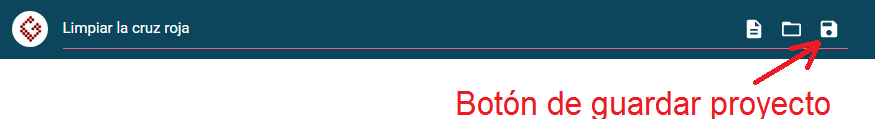
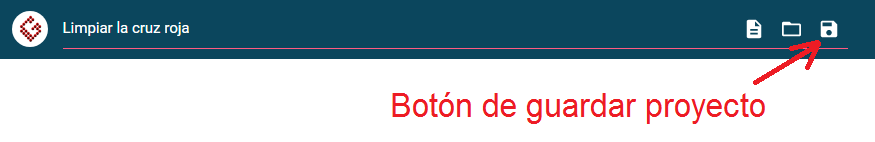
Nueva actualización del .md de 2.2.3.2

Changed region(s): [[0.0, 0.0625, 1.0, 0.9375], [0.8331, 0.125, 0.864, 0.1562]]

diff --git a/Proyectos/Cap.2/2.2.3.2.Limpiar la cruz roja/description.md b/Proyectos/Cap.2/2.2.3.2.Limpiar la cruz roja/description.md
@@ -18,7 +18,7 @@ Fijate que el tablero inicial va a ser siempre el mismo, con lo cual tenés que 
 
 [Imagen1]: https://raw.githubusercontent.com/gobstones/proyectos-jr/master/Proyectos/Cap.2/2.2.3.2.Limpiar%20la%20cruz%20roja/Imagen1-small.png "Tableros inicial y final"
 
-[Imagen2]: https://raw.githubusercontent.com/gobstones/proyectos-jr/master/Proyectos/Cap.2/2.2.3.2.Limpiar%20la%20cruz%20roja/Imagen2.png "Botón de guardar proyecto"
+[Imagen2]: https://raw.githubusercontent.com/gobstones/proyectos-jr/master/Proyectos/Cap.2/2.2.3.2.Limpiar%20la%20cruz%20roja/Imagen2-small.png "Botón de guardar proyecto"
 
 [PDF]: https://raw.githubusercontent.com/gobstones/proyectos-jr/master/Proyectos/Cap.2/2.2.3.2.Limpiar%20la%20cruz%20roja/description.pdf "Enunciado de 'Limpiar la cruz roja' en PDF"
 
